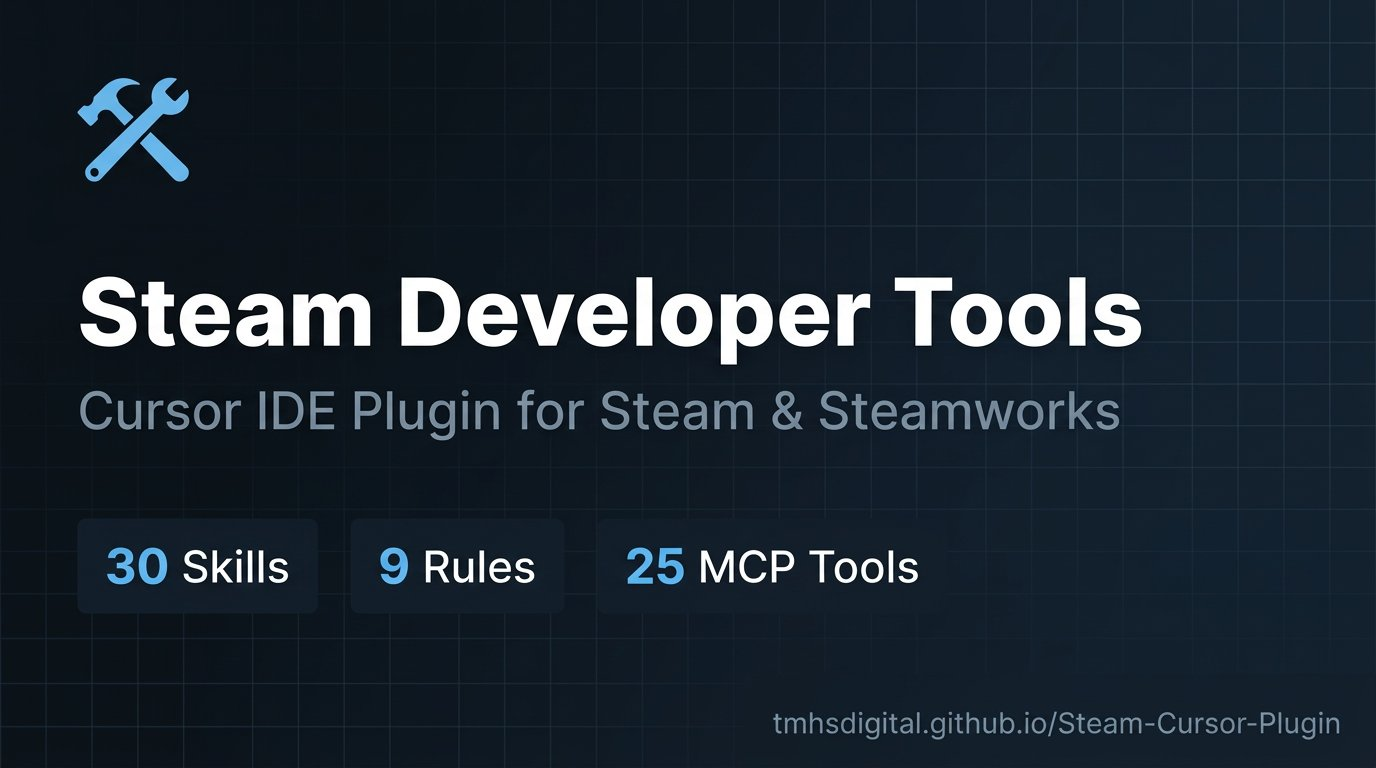
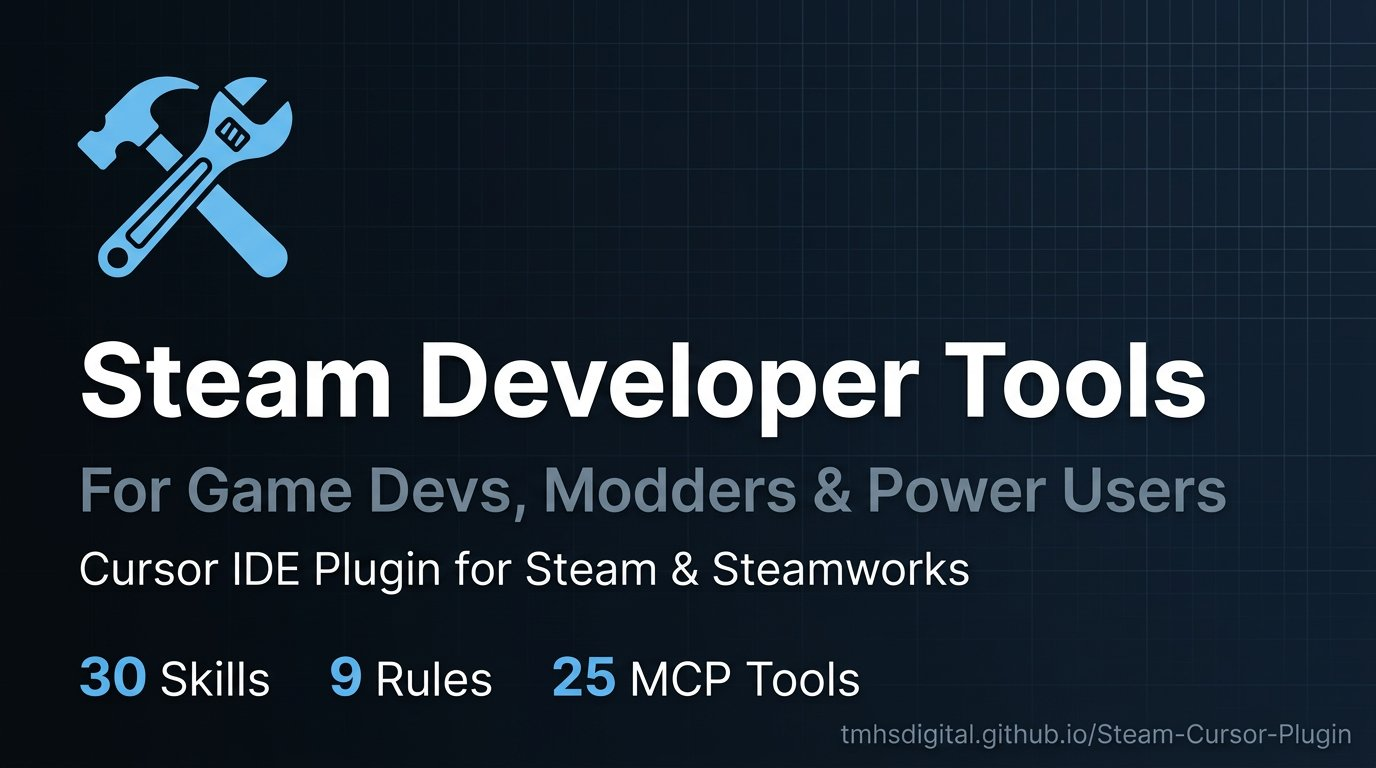
feat: release v1.0.0 - expand audience to include modders
Marketing: add modders to plugin.json description and keywords, README tagline, CLAUDE.md overview, docs/index.html hero/meta/Who Is This For section, OG card, and GitHub repo descriptions/topics for both repos.

Skill triggers: widen steam-workshop-helper (3 new triggers + modder example), steam-store-lookup, steam-api-reference, steam-community-management to activate on modder use cases.

Release: convert Unreleased to [1.0.0], bump version across plugin.json/README badge, check off ROADMAP release checklist, mark v1.0.0 as current.
Made-with: Cursor

diff --git a/docs/index.html b/docs/index.html
@@ -4,9 +4,9 @@
 <meta charset="UTF-8">
 <meta name="viewport" content="width=device-width, initial-scale=1.0">
 <title>Steam Developer Tools - Cursor IDE Plugin</title>
-<meta name="description" content="30 AI skills, 9 code rules, and 25 MCP tools for Steam and Steamworks game development inside Cursor IDE.">
+<meta name="description" content="30 AI skills, 9 code rules, and 25 MCP tools for Steam and Steamworks game development and modding inside Cursor IDE.">
 <meta property="og:title" content="Steam Developer Tools - Cursor IDE Plugin">
-<meta property="og:description" content="30 AI skills, 9 code rules, and 25 MCP tools for Steam and Steamworks game development inside Cursor IDE.">
+<meta property="og:description" content="30 AI skills, 9 code rules, and 25 MCP tools for Steam and Steamworks game development and modding inside Cursor IDE.">
 <meta property="og:type" content="website">
 <meta property="og:url" content="https://tmhsdigital.github.io/Steam-Cursor-Plugin/">
 <meta property="og:image" content="https://tmhsdigital.github.io/Steam-Cursor-Plugin/assets/og-card.jpg">
@@ -14,7 +14,7 @@
 <meta property="og:image:height" content="630">
 <meta name="twitter:card" content="summary_large_image">
 <meta name="twitter:title" content="Steam Developer Tools - Cursor IDE Plugin">
-<meta name="twitter:description" content="30 AI skills, 9 code rules, and 25 MCP tools for Steam & Steamworks game development inside Cursor IDE.">
+<meta name="twitter:description" content="30 AI skills, 9 code rules, and 25 MCP tools for Steam & Steamworks game development and modding inside Cursor IDE.">
 <meta name="twitter:image" content="https://tmhsdigital.github.io/Steam-Cursor-Plugin/assets/og-card.jpg">
 <link rel="icon" href="assets/logo-64.png" type="image/png">
 <link rel="preconnect" href="https://fonts.googleapis.com">
@@ -122,6 +122,16 @@ section{padding:80px 24px}
 .section-label{font-size:.75rem;font-weight:700;letter-spacing:.12em;text-transform:uppercase;color:var(--accent);margin-bottom:8px}
 .section-title{font-size:clamp(1.5rem,3vw,2.2rem);font-weight:800;color:var(--white);margin-bottom:12px;letter-spacing:-.01em}
 .section-desc{color:var(--text-muted);max-width:600px;margin-bottom:48px;font-size:1.05rem;line-height:1.7}
+
+/* WHO IS THIS FOR */
+.who-grid{display:grid;grid-template-columns:repeat(auto-fit,minmax(240px,1fr));gap:24px;margin-top:32px}
+.who-card{background:var(--bg-card);border:1px solid rgba(102,192,244,.1);border-radius:var(--radius-lg);padding:32px 24px;text-align:center;transition:border-color .3s,transform .3s}
+.who-card:hover{border-color:var(--accent);transform:translateY(-3px);box-shadow:0 8px 32px rgba(0,0,0,.3)}
+.who-icon{font-size:2.5rem;margin-bottom:12px}
+.who-role{font-size:1.2rem;font-weight:700;color:#fff;margin-bottom:12px}
+.who-list{list-style:none;padding:0;margin:0;text-align:left}
+.who-list li{color:var(--text-muted);font-size:.9rem;padding:6px 0 6px 18px;position:relative}
+.who-list li::before{content:'>';color:var(--accent);position:absolute;left:0;font-weight:700}
 
 /* HOW IT WORKS */
 .flow{display:grid;grid-template-columns:repeat(auto-fit,minmax(200px,1fr));gap:24px;position:relative}
@@ -296,9 +306,9 @@ footer{border-top:1px solid rgba(102,192,244,.08);padding:48px 24px;text-align:c
 <header class="hero">
   <img src="assets/logo-256.png" alt="Steam Developer Tools" class="hero-logo" width="96" height="96">
   <h1>Steam Developer Tools</h1>
-  <p>Steam &amp; Steamworks integration for Cursor IDE. Query store data, build multiplayer, design achievements, automate builds - all from AI chat.</p>
+  <p>Steam &amp; Steamworks integration for Cursor IDE. Query store data, build multiplayer, design achievements, manage Workshop mods, automate builds - all from AI chat.</p>
   <div class="hero-badges">
-    <span class="badge badge-version">v0.9.0</span>
+    <span class="badge badge-version">v1.0.0</span>
     <span class="badge badge-license">CC BY-NC-ND 4.0</span>
     <span class="badge badge-plugin">Cursor Plugin</span>
     <a href="https://www.npmjs.com/package/@tmhs/steam-mcp" class="badge badge-npm"><img src="https://img.shields.io/npm/dw/@tmhs/steam-mcp?label=npm%20downloads&color=e8b23a&style=flat-square" alt="npm downloads"></a>
@@ -321,6 +331,43 @@ footer{border-top:1px solid rgba(102,192,244,.08);padding:48px 24px;text-align:c
     <div class="stat-label" style="margin-top:8px">npm</div>
   </div>
 </div>
+
+<!-- WHO IS THIS FOR -->
+<section id="who">
+  <div class="container reveal">
+    <div class="section-label">Who Is This For?</div>
+    <div class="section-title">Built for everyone in the Steam ecosystem.</div>
+    <div class="who-grid">
+      <div class="who-card">
+        <div class="who-icon">&#x1F3AE;</div>
+        <div class="who-role">Game Developers</div>
+        <ul class="who-list">
+          <li>Configure depots, achievements, leaderboards</li>
+          <li>Automate CI/CD builds with SteamPipe</li>
+          <li>Validate release readiness before launch</li>
+        </ul>
+      </div>
+      <div class="who-card">
+        <div class="who-icon">&#x1F527;</div>
+        <div class="who-role">Modders</div>
+        <ul class="who-list">
+          <li>Publish and update Workshop items</li>
+          <li>Browse trending mods and find inspiration</li>
+          <li>Get SDK code for UGC integration</li>
+        </ul>
+      </div>
+      <div class="who-card">
+        <div class="who-icon">&#x26A1;</div>
+        <div class="who-role">Power Users</div>
+        <ul class="who-list">
+          <li>Look up player profiles and stats</li>
+          <li>Analyze reviews and pricing trends</li>
+          <li>Compare games side-by-side with live data</li>
+        </ul>
+      </div>
+    </div>
+  </div>
+</section>
 
 <!-- HOW IT WORKS -->
 <section id="how">
@@ -522,6 +569,8 @@ footer{border-top:1px solid rgba(102,192,244,.08);padding:48px 24px;text-align:c
       <div class="prompt-card" onclick="copyPrompt(this)"><span class="copy-hint">Copy</span><p>Set up Steam build configs for my game. App ID 2345678, Windows and Linux.</p></div>
       <div class="prompt-card" onclick="copyPrompt(this)"><span class="copy-hint">Copy</span><p>Compare Hades, Dead Cells, and Hollow Knight - price, reviews, players.</p></div>
       <div class="prompt-card" onclick="copyPrompt(this)"><span class="copy-hint">Copy</span><p>I want to add cloud saves to my roguelike. Single save file in AppData/Local.</p></div>
+      <div class="prompt-card" onclick="copyPrompt(this)"><span class="copy-hint">Copy</span><p>Find trending Workshop mods for Garry's Mod and show subscriber counts.</p></div>
+      <div class="prompt-card" onclick="copyPrompt(this)"><span class="copy-hint">Copy</span><p>How do I upload my custom map to the Steam Workshop? I need the SDK code.</p></div>
     </div>
   </div>
 </section>

diff --git a/CHANGELOG.md b/CHANGELOG.md
@@ -5,7 +5,7 @@ All notable changes to Steam Developer Tools will be documented in this file.
 The format is based on [Keep a Changelog](https://keepachangelog.com/en/1.1.0/),
 and this project adheres to [Semantic Versioning](https://semver.org/spec/v2.0.0.html).
 
-## [Unreleased]
+## [1.0.0] - 2026-03-29
 
 ### Added
 
@@ -13,15 +13,29 @@ and this project adheres to [Semantic Versioning](https://semver.org/spec/v2.0.0
   - `steam_getNewsForApp` — Fetch recent news and announcements for a game (no auth)
   - `steam_getSchemaForGame` — Achievement/stat schema with display names, descriptions, and icons (API key)
   - `steam_getPlayerAchievements` — Per-player achievement unlock status and timestamps (API key)
-  - `steam_getLeaderboardsForGame` — List all leaderboards with numeric IDs (publisher key)
+  - `steam_getLeaderboardsForGame` — List all leaderboards with numeric IDs (API key)
   - `steam_clearAchievement` — Re-lock/clear an achievement for QA testing (publisher key)
 - Skills updated with new tool references: steam-api-reference, steam-achievement-designer, steam-player-stats, steam-leaderboards, steam-community-management, steam-testing-sandbox
 - `steam-api-key-usage` rule updated with `GetNewsForApp`, `GetSchemaForGame`, `GetPlayerAchievements` equivalents
+
+### Changed
+
+- **Expanded target audience** to include modders alongside game developers and power users
+- Widened skill triggers for steam-workshop-helper, steam-store-lookup, steam-api-reference, and steam-community-management to activate on modder use cases
+- Added modder example interaction to steam-workshop-helper (Workshop upload flow)
+- Added "For Modders" callout section in README with relevant tools
+- Added "Who Is This For?" section to GitHub Pages site with game dev / modder / power user columns
+- Added modder-related prompt cards to the site
+- Updated OG card, meta descriptions, and plugin description to include modders
+- Added `modding`, `steam-workshop`, `ugc` keywords to plugin.json
+- Plugin version bumped to 1.0.0
 
 ### Fixed
 
 - **MCP tool naming** — Renamed all 20 MCP tool references from dot notation (`steam.getAppDetails`) to underscore notation (`steam_getAppDetails`) across 34 files. Dots conflicted with Cursor's internal MCP bridge routing. Companion steam-mcp server v0.5.0 has the matching rename.
 - **`steam_searchApps` parameter** — Renamed `term` to `query` across all skills, rules, and docs to match steam-mcp server v0.5.1 schema change
+- **`steam_getLeaderboardsForGame` auth tier** — Corrected from publisher key to standard API key across all docs (companion steam-mcp server v0.6.1)
+- **`steam_getPlayerAchievements` error message** — Corrected from publisher key boilerplate to free API key + public profile message (companion steam-mcp server v0.6.1)
 - **Companion steam-mcp server v0.5.1** — `steam_getLeaderboardEntries` description clarified (numeric ID required), write tools (`steam_setAchievement`, `steam_uploadLeaderboardScore`, `steam_grantInventoryItem`) now return clear error messages when publisher key is missing
 - **Companion steam-mcp server v0.6.0** — Fixed POST body encoding on publisher tools (params now sent as `application/x-www-form-urlencoded` body instead of URL query string), removed dead variable in `grantInventoryItem`
 
@@ -185,6 +199,7 @@ and this project adheres to [Semantic Versioning](https://semver.org/spec/v2.0.0
 - **steam-deck-compat** rule: flags common Steam Deck compatibility issues (hardcoded resolutions, mouse-only input, anti-cheat, Windows-only paths, missing controller support)
 - Plugin manifest, README, CONTRIBUTING guide, and license
 
+[1.0.0]: https://github.com/TMHSDigital/Steam-Cursor-Plugin/releases/tag/v1.0.0
 [0.9.0]: https://github.com/TMHSDigital/Steam-Cursor-Plugin/releases/tag/v0.9.0
 [0.8.0]: https://github.com/TMHSDigital/Steam-Cursor-Plugin/releases/tag/v0.8.0
 [0.7.0]: https://github.com/TMHSDigital/Steam-Cursor-Plugin/releases/tag/v0.7.0

diff --git a/README.md b/README.md
@@ -5,13 +5,13 @@
 <h1 align="center">Steam Developer Tools</h1>
 
 <p align="center">
-  <em>Steam &amp; Steamworks integration for Cursor IDE - built for game developers and power users.</em>
+  <em>Steam &amp; Steamworks integration for Cursor IDE - built for game developers, modders, and power users.</em>
 </p>
 
 <p align="center">
   <a href="https://github.com/TMHSDigital/Steam-Cursor-Plugin/actions/workflows/validate.yml"><img src="https://img.shields.io/github/actions/workflow/status/TMHSDigital/Steam-Cursor-Plugin/validate.yml?label=CI" alt="CI"></a>
   <a href="LICENSE"><img src="https://img.shields.io/badge/license-CC--BY--NC--ND--4.0-blue.svg" alt="License: CC BY-NC-ND 4.0"></a>
-  <a href="CHANGELOG.md"><img src="https://img.shields.io/badge/version-0.9.0-green.svg" alt="Version"></a>
+  <a href="CHANGELOG.md"><img src="https://img.shields.io/badge/version-1.0.0-green.svg" alt="Version"></a>
   <a href="https://www.npmjs.com/package/@tmhs/steam-mcp"><img src="https://img.shields.io/npm/v/@tmhs/steam-mcp?label=MCP%20server" alt="npm version"></a>
   <a href="https://www.npmjs.com/package/@tmhs/steam-mcp"><img src="https://img.shields.io/npm/dw/@tmhs/steam-mcp?label=MCP%20downloads" alt="npm downloads"></a>
   <a href="https://github.com/TMHSDigital/Steam-Cursor-Plugin/stargazers"><img src="https://img.shields.io/github/stars/TMHSDigital/Steam-Cursor-Plugin?style=flat" alt="GitHub Stars"></a>
@@ -27,7 +27,7 @@
   <strong>30 skills</strong> &nbsp;&bull;&nbsp; <strong>9 rules</strong> &nbsp;&bull;&nbsp; <strong>25 MCP tools</strong>
 </p>
 
-Query Steam store data, manage Steamworks app configurations, build multiplayer networking, implement cloud saves, design achievements, compare games, and look up player profiles — all from within Cursor's AI chat. Covers the full Steam &amp; Steamworks ecosystem with live data via the companion [Steam MCP Server](https://github.com/TMHSDigital/steam-mcp).
+Query Steam store data, manage Steamworks app configurations, build multiplayer networking, implement cloud saves, design achievements, manage Workshop mods, compare games, and look up player profiles — all from within Cursor's AI chat. Covers the full Steam &amp; Steamworks ecosystem with live data via the companion [Steam MCP Server](https://github.com/TMHSDigital/steam-mcp).
 
 > **No API key required** for most features. Store lookups, player counts, global achievement stats, and app searches all work out of the box.
 
@@ -210,6 +210,26 @@ The [Steam MCP Server](https://github.com/TMHSDigital/steam-mcp) provides live, 
 | `steam_clearAchievement` | HTTP POST | Clear/re-lock achievements (dev/test) |
 | `steam_uploadLeaderboardScore` | HTTP POST | Upload leaderboard scores |
 | `steam_grantInventoryItem` | HTTP POST | Grant inventory items |
+
+</details>
+
+<details>
+<summary><strong>For Modders</strong></summary>
+
+&nbsp;
+
+If you're a mod creator, these tools are directly useful for your Workshop workflow:
+
+| Tool | What it does for modders |
+|------|------------------------|
+| `steam_queryWorkshop` | Browse trending mods, find inspiration, check competitor items |
+| `steam_getWorkshopItem` | Look up any Workshop item — subscribers, tags, update history |
+| `steam_uploadWorkshopItem` | Get SDK code for publishing your mod to the Workshop |
+| `steam_updateWorkshopItem` | Update your mod's metadata via the partner API |
+| `steam_searchApps` | Find games to mod — check Workshop support before starting |
+| `steam_getAppDetails` | Check a game's categories, tags, and Workshop status |
+
+The **Workshop Helper** skill provides end-to-end guidance for mod creators: uploading, updating, querying, and managing Workshop items with C++, C#, and GDScript examples.
 
 </details>
 

diff --git a/CLAUDE.md b/CLAUDE.md
@@ -4,11 +4,11 @@ This file provides guidance to Claude Code (claude.ai/code) when working with co
 
 ## Project Overview
 
-**Steam Developer Tools** is a Cursor IDE plugin (v0.9.0) that integrates Steam and Steamworks APIs for game developers and power users. It provides AI-assisted workflows for querying Steam store data, managing Steamworks configurations, building multiplayer networking, implementing cloud saves, leaderboards, input, inventory/economy, social features, looking up API docs, fetching player statistics, integrating Workshop UGC, designing achievements, looking up player profiles, comparing games, analyzing reviews, researching pricing, evaluating market fit, estimating wishlists, automating builds, validating release readiness, scripting steamcmd, managing communities, optimizing store pages, planning pricing strategy, configuring DLC, setting up playtests, creating bug report workflows, integrating anti-cheat, providing a testing sandbox, and guiding platform migration.
+**Steam Developer Tools** is a Cursor IDE plugin (v1.0.0) that integrates Steam and Steamworks APIs for game developers, modders, and power users. It provides AI-assisted workflows for querying Steam store data, managing Steamworks configurations, building multiplayer networking, implementing cloud saves, leaderboards, input, inventory/economy, social features, looking up API docs, fetching player statistics, integrating Workshop UGC, designing achievements, looking up player profiles, comparing games, analyzing reviews, researching pricing, evaluating market fit, estimating wishlists, automating builds, validating release readiness, scripting steamcmd, managing communities, optimizing store pages, planning pricing strategy, configuring DLC, setting up playtests, creating bug report workflows, integrating anti-cheat, providing a testing sandbox, and guiding platform migration.
 
-This plugin uses Markdown skill files and MDC rule files for AI guidance, paired with the companion [Steam MCP Server](https://github.com/TMHSDigital/steam-mcp) (separate repo) which provides 25 API tools (17 read-only + 8 write/guidance) for live data access. No build system, no npm, no compiled code in this repo.
+This plugin uses Markdown skill files and MDC rule files for AI guidance, paired with the companion [Steam MCP Server](https://github.com/TMHSDigital/steam-mcp) (separate repo) which provides 25 API tools (18 read-only + 7 write/guidance) for live data access. No build system, no npm, no compiled code in this repo.
 
-The project is on a themed release roadmap toward v1.0.0 (see `ROADMAP.md`). The next milestone is v1.0.0 "Stable" — the production release. Target at v1.0.0: 30 skills, 9 rules, 25 MCP tools.
+The project is on a themed release roadmap toward v1.0.0 (see `ROADMAP.md`). The current release is v1.0.0 "Stable" — the production release. 30 skills, 9 rules, 25 MCP tools.
 
 ## Plugin Architecture
 

diff --git a/ROADMAP.md b/ROADMAP.md
@@ -2,9 +2,9 @@
 
 Themed release plan toward v1.0.0.
 
-**Current:** v0.9.0 - 30 skills, 9 rules, companion [Steam MCP server](https://github.com/TMHSDigital/steam-mcp) with 25 tools (17 read-only + 8 write/guidance).
+**Current:** v1.0.0 - 30 skills, 9 rules, companion [Steam MCP server](https://github.com/TMHSDigital/steam-mcp) with 25 tools (18 read-only + 7 write/guidance).
 
-**Target:** v1.0.0 - 30 skills, 9 rules, 25 MCP tools.
+**Status:** v1.0.0 "Stable" released. 30 skills, 9 rules, 25 MCP tools.
 
 | Version | Theme | New Skills | New Rules | MCP Tools | Total Skills | Total Rules |
 |---------|-------|-----------|-----------|-----------|-------------|-------------|
@@ -16,8 +16,8 @@ Themed release plan toward v1.0.0.
 | v0.6.0 | Quality | 3 | 3 | 0 | 28 | 9 |
 | v0.7.0 | Full Power | 1 | 0 | 6 | 29 | 9 |
 | v0.8.0 | Polish | 1 | 0 | 0 | 30 | 9 |
-| v0.9.0 (current) | Complete | 0 | 0 | 4 | 30 | 9 |
-| v1.0.0 | Stable | 0 | 0 | 0 | 30 | 9 |
+| v0.9.0 | Complete | 0 | 0 | 4 | 30 | 9 |
+| v1.0.0 (current) | Stable | 0 | 0 | 5 | 30 | 9 |
 
 ---
 
@@ -215,12 +215,13 @@ Update all 14 existing skills to reference MCP tools where applicable. Replace "
 
 ### Release Checklist
 
-- [ ] All 30 skills reviewed and tested
-- [ ] All 25 MCP tools documented and stable
-- [ ] All 9 rules validated against real projects
-- [ ] CHANGELOG fully up to date
-- [ ] README reflects final feature set
-- [ ] Version locked at 1.0.0, semver from here on out
+- [x] All 30 skills reviewed and tested
+- [x] All 25 MCP tools documented and stable
+- [x] All 9 rules validated against real projects
+- [x] CHANGELOG fully up to date
+- [x] README reflects final feature set
+- [x] Version locked at 1.0.0, semver from here on out
+- [x] Target audience expanded to include modders alongside game developers and power users
 
 ---
 

diff --git a/skills/steam-workshop-helper/SKILL.md b/skills/steam-workshop-helper/SKILL.md
@@ -14,6 +14,9 @@ Use this skill when the user:
 - Needs details about a specific Workshop item (file ID)
 - Asks about Workshop upload, update, or query APIs
 - Wants to understand Workshop integration architecture
+- Is a modder looking to publish or update a Workshop item
+- Wants to find popular mods for a game
+- Needs help with the Workshop upload/update SDK flow as a mod creator
 
 ## Required Inputs
 
@@ -86,6 +89,14 @@ When the user is building Workshop support into their game, provide guidance on 
 3. Shows how to query installed items at game startup
 4. Links to the Workshop implementation guide
 5. Notes: "Use `SetItemContent` pointing to a folder - Steam will diff and upload only changed files."
+
+**User:** "I made a custom map for Cities: Skylines. How do I upload it to the Workshop?"
+
+**Agent:**
+1. Uses `steam_searchApps({ query: "Cities: Skylines" })` to confirm the App ID
+2. Walks through the ISteamUGC upload flow: CreateItem, StartItemUpdate, SetItemContent (pointing to the map folder), SetItemTitle, SetItemPreview, SetItemTags
+3. Shows how to set visibility (Public/Friends/Private) and add a changelog
+4. Notes: "After the first upload, use `SubmitItemUpdate` with a change note for updates. Steam tracks versions automatically."
 
 ## MCP Usage
 

diff --git a/skills/steam-community-management/SKILL.md b/skills/steam-community-management/SKILL.md
@@ -15,6 +15,7 @@ Use this skill when the user:
 - Wants to set up or moderate Steam Discussion forums
 - Asks about Community Hub configuration (screenshots, artwork, guides)
 - Needs help with community engagement strategy post-launch
+- Is a modder managing their Workshop item's discussion threads or changelogs
 
 ## Required Inputs
 

diff --git a/skills/steam-api-reference/SKILL.md b/skills/steam-api-reference/SKILL.md
@@ -14,6 +14,7 @@ Use this skill when the user:
 - Needs parameter details for a Steam Web API method
 - Is integrating the Steamworks SDK (C++, C#, or other supported languages)
 - Asks about authentication (API keys, session tickets, etc.)
+- Is a modder looking for Workshop or UGC API documentation
 
 ## Required Inputs
 

diff --git a/skills/steam-store-lookup/SKILL.md b/skills/steam-store-lookup/SKILL.md
@@ -14,6 +14,7 @@ Use this skill when the user:
 - Needs system requirements for a title
 - Wants to compare games or check competitor store pages
 - Mentions a Steam App ID or game name in a store context
+- Wants to check if a game supports Workshop/mods before starting a mod project
 
 ## Required Inputs
 
